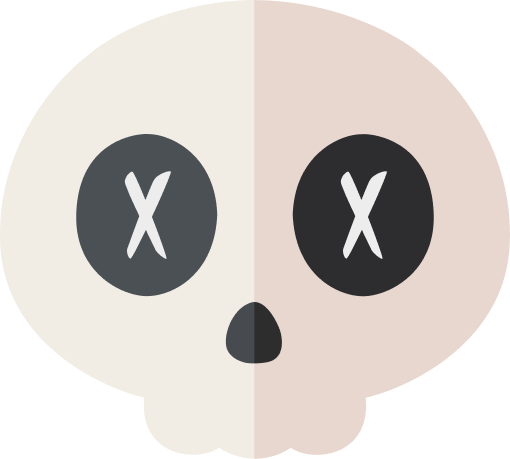
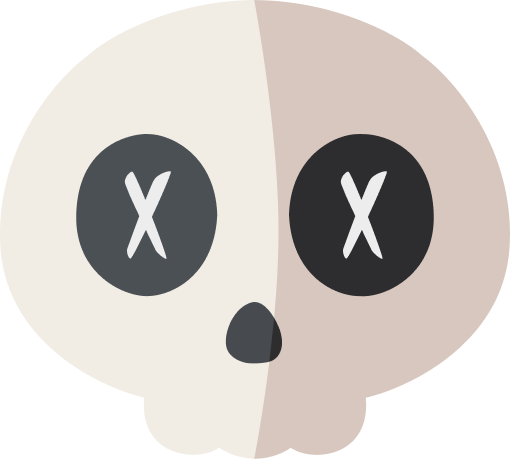
fix enemy minor issue

diff --git a/src/Experience/World/batchedMeshWorld/Enemy.js b/src/Experience/World/batchedMeshWorld/Enemy.js
@@ -167,7 +167,7 @@ export default class Enemy extends THREE.EventDispatcher {
       this.physics.world.createRigidBody(enemyRigidBodyDesc);
 
     // Collider configuration
-    const enemyColliderDesc = RAPIER.ColliderDesc.capsule(0.8, 1, 0.7);
+    const enemyColliderDesc = RAPIER.ColliderDesc.cuboid(0.8, 1, 0.7);
 
     const enemyCollider = this.physics.world.createCollider(
       enemyColliderDesc,
@@ -255,16 +255,16 @@ export default class Enemy extends THREE.EventDispatcher {
     // Safety cap prevents too many spawns in a single long frame.
     let spawnedThisFrame = 0;
     const maxSpawnsPerFrame = 10;
-    // while (
-    //   spawnedThisFrame < maxSpawnsPerFrame &&
-    //   this.time.elapsed >= this._nextSpawnTime
-    // ) {
-    //   const spawnPos = this._computeSpawnPosition(characterRb);
-    //   // clone so list stores a stable snapshot, not our temp vector
-    //   this.createEnnemie(spawnPos.clone());
-    //   spawnedThisFrame++;
-    //   this._nextSpawnTime += this._getSpawnInterval();
-    // }
+    while (
+      spawnedThisFrame < maxSpawnsPerFrame &&
+      this.time.elapsed >= this._nextSpawnTime
+    ) {
+      const spawnPos = this._computeSpawnPosition(characterRb);
+      // clone so list stores a stable snapshot, not our temp vector
+      this.createEnnemie(spawnPos.clone());
+      spawnedThisFrame++;
+      this._nextSpawnTime += this._getSpawnInterval();
+    }
 
     for (let i = this.list.length - 1; i >= 0; i--) {
       const enemy = this.list[i];
